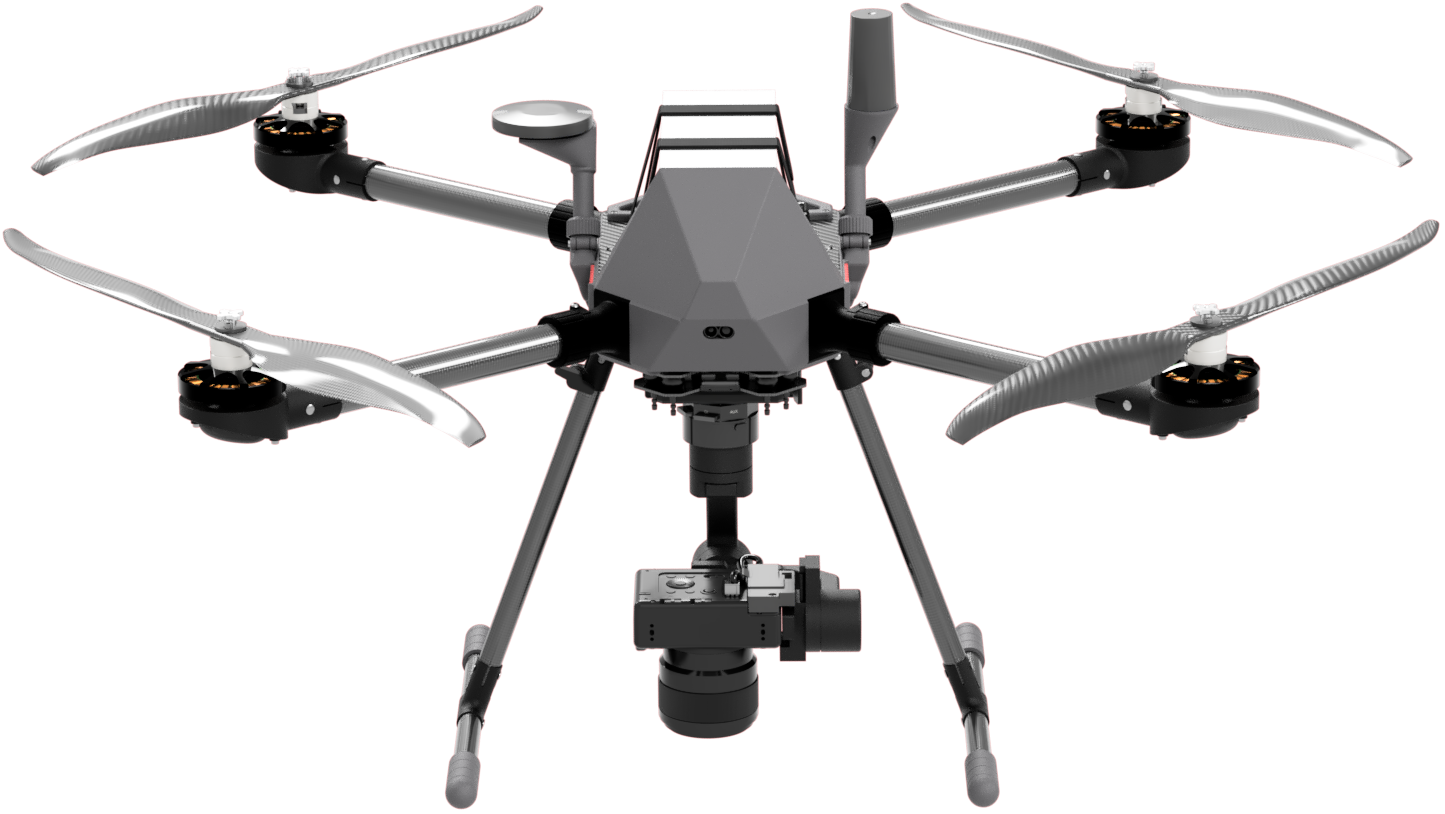
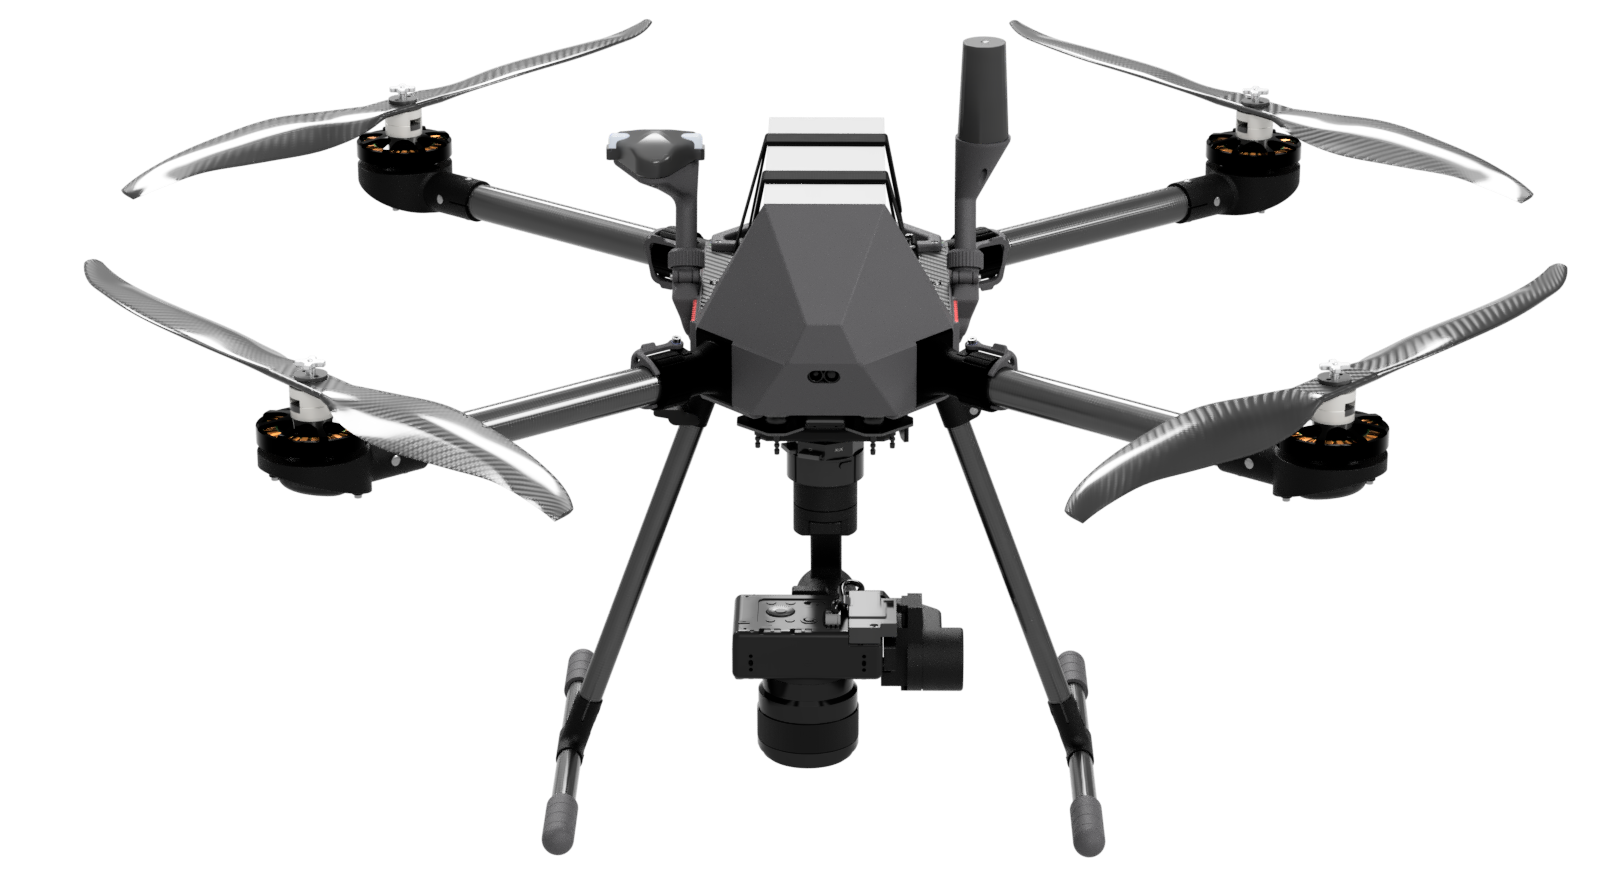
update images

Changed region(s): [[0.0, 0.0, 0.9965, 1.0], [0.9654, 0.1843, 0.9965, 0.215], [0.9343, 0.215, 0.9654, 0.2457]]

diff --git a/src/app/career/senior-electronics-engineer/page.tsx b/src/app/career/senior-electronics-engineer/page.tsx
@@ -112,15 +112,15 @@ const jobDetails: Record<string, JobDetail> = {
           'Work with management to plan product innovation.',
           'Work with the mechanical and software teams to integrate the electronics into the drone and payloads.',
           'Collect objective data, Document and test Avionic systems based on industry standards.',
-          'Component selection, sourcing and procurement for electronics systems.',
+          'Component selection and sourcing for electronics.',
           'Design of PCBs for Drone and Payloads, production coordination and integration into the final product.',
-          'Design avioncics wiring layouts and harnesses for drones and payloads.',
+          'Design avionics wiring layouts and harnesses for drones and payloads.',
           'Production overview and support for electronics manufacturing, assembly and testing.',
           'Assist in Flight qualification and field tests (control loop tuning).',
-          'Lead Qualification testing and Certification process with NABL Labs (EMI, EMC etc.).',
+          'Troubleshoot and resolve issues with avionics systems and components.',
           'Update the avionics systems based on the test results and feedback from the end users.',
           'Design and implement Bench testing and validation systems for the avionics systems.',
-          'Design sub systems for Drone peripherals and payloads.',
+          'Design sub systems for Drone peripherals and payload.',
         ],
       },
       {
@@ -129,15 +129,20 @@ const jobDetails: Record<string, JobDetail> = {
           'At least 5 years of hands-on experience in electronics design, manufacturing, integration, and testing of UAV/drone avionics systems, including flight controllers, power distribution systems, sensors, and communication interfaces.',
           'Deep understanding of Electronics components, circuit theory, circuit analysis, power electronics and power calculations.',
           'Experience in Electronics design simulation and validation.',
-          'Experience in PCB Design (KICAD (preferred), EASY EDA, ALTIUM etc.), Analysis and Manufacturing.',
+          'Experience in PCB Design (KICAD (preferred), ALTIUM etc.), Analysis and Manufacturing.',
           'Experience in IEC standards for PCBs, EMC testing, Environmental testing.',
           'Experience in Drone Type Certification with DGCA',
           'Experience in task planning, scheduling and forecasting.',
           'Experience in RTK and PPK workflows for UAVs.',
+          'Experience in Mission planner and QGroundControl for UAVs.',
+          'Strong understanding of UART, CAN/DroneCAN, I²C, SPI, and MAVLink communication protocols.',
+          'Experience with ESC configuration, diagnostics, firmware updates, and communication troubleshooting.',
+          'Proficiency in using oscilloscope software, logic analysers, and serial debugging tools.',
+          'Experience analysing flight logs, sensor data, power system behaviour, and avionics failures.',
           'Basic knowledge on Ardupilot and PX4 flight controllers, and their integration with sensors and actuators.',
           'Basic knowledge on tuning of Control loops and PID controllers for UAVs.',
           'Great communication skills.',
-          'A good team player.',
+        
         ],
       },
       {
